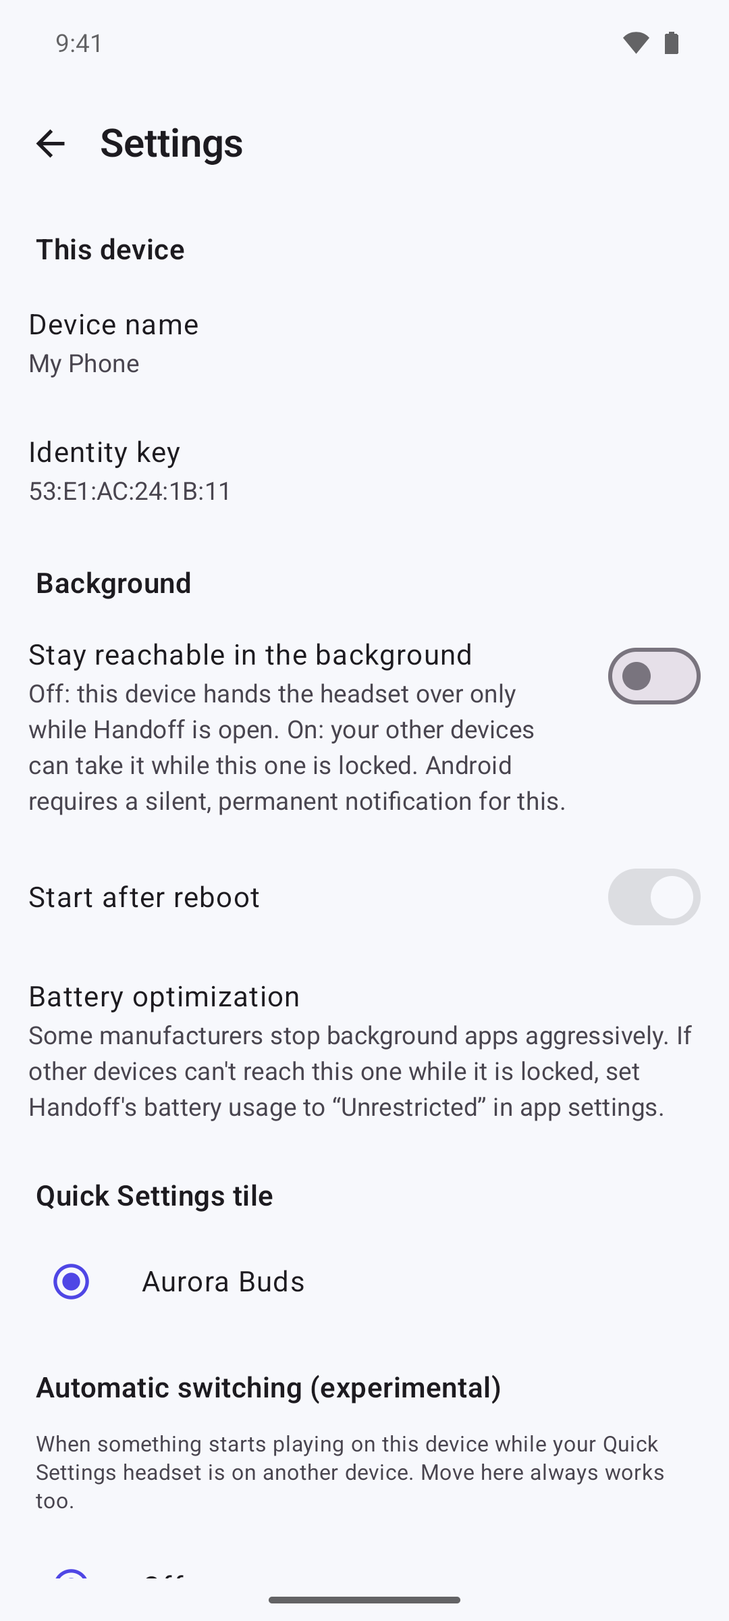
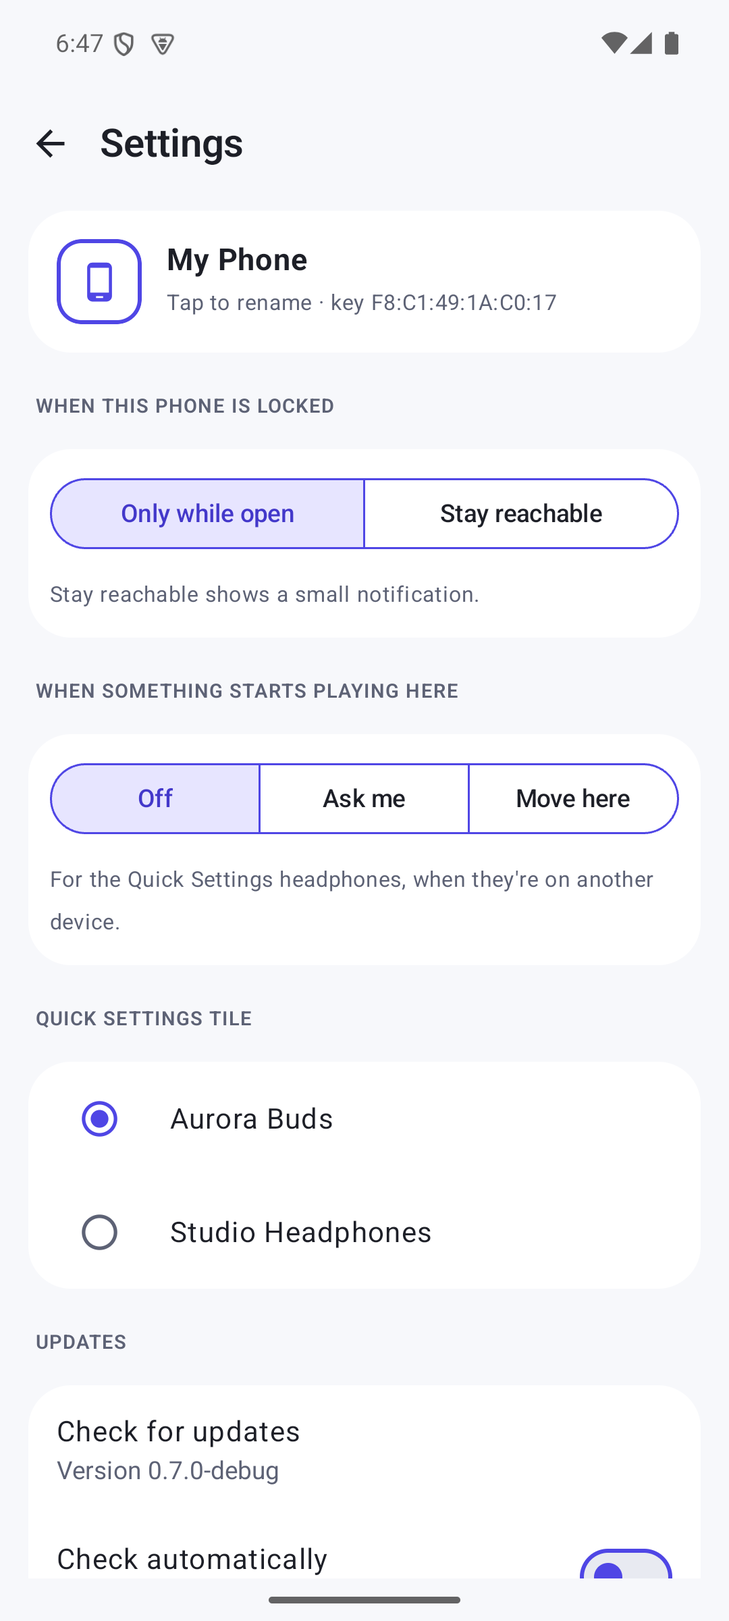
Handoff 0.7.0: new screenshots and guide for the redesign

diff --git a/docs/GETTING_STARTED.md b/docs/GETTING_STARTED.md
@@ -40,12 +40,12 @@ Pair your headphones with each device the usual way, in its Bluetooth settings. 
     <td align="center"><img src="screenshots/guide/setup-welcome.png" width="190" alt="Welcome screen"></td>
     <td align="center"><img src="screenshots/guide/setup-permissions.png" width="190" alt="The permissions step, with an Allow button for Nearby devices"></td>
     <td align="center"><img src="screenshots/guide/setup-name.png" width="190" alt="Naming the device My Phone"></td>
-    <td align="center"><img src="screenshots/guide/setup-check.png" width="190" alt="Handoff checking whether the device can switch headphones"></td>
+    <td align="center"><img src="screenshots/guide/setup-check.png" width="190" alt="Handoff checking whether this phone can move headphones"></td>
   </tr>
   <tr>
     <td align="center"><sub>Welcome</sub></td>
     <td align="center"><sub>Allow <b>Nearby devices</b></sub></td>
-    <td align="center"><sub>Name this device</sub></td>
+    <td align="center"><sub>Name this phone</sub></td>
     <td align="center"><sub>The device check</sub></td>
   </tr>
 </table>
@@ -53,11 +53,11 @@ Pair your headphones with each device the usual way, in its Bluetooth settings. 
 1. Read the welcome screen and tap **Continue**.
 2. Tap **Allow**, then allow **Nearby devices** when Android asks. Handoff needs this to see and connect your headphones, and it's the only permission setup asks for. Despite the wording of Android's prompt, Handoff doesn't use your location.
 3. Give your phone or tablet a name, so your other devices can show it.
-4. Handoff checks whether your device can switch headphones:
-   - **Supported:** Handoff has already moved headphones on this device.
-   - **Experimental:** everything Handoff needs is available. It changes to Supported after your first successful move.
-   - **Not supported on this device:** your phone maker doesn't let apps connect headphones. Your other devices can still take the headphones from it.
-5. Choose whether Handoff should **stay reachable in the background**. Switched on, your other devices can take the headphones from this one even when Handoff is closed or the screen is locked. Switched off, open Handoff on this device before moving the headphones away from it. You can change this later in Settings; see [Running in the background](#running-in-the-background-android).
+4. Handoff checks whether your phone can move headphones:
+   - **Yes, it works:** Handoff has already moved headphones on this phone.
+   - **Should work. Try your first move:** everything Handoff needs is available. It changes to "Yes" after your first successful move.
+   - **No:** your phone maker doesn't let apps connect headphones. Your other devices can still take the headphones from it.
+5. Choose what happens **when this phone is locked**: **Only while open** (open Handoff here before moving the headphones away) or **Stay reachable** (your other devices can take the headphones even when Handoff is closed or the screen is locked; Android shows a small notification). You can change this later in Settings; see [Running in the background](#running-in-the-background-android).
 
 **On Windows**, there's nothing to set up. Your PC appears under its own name, which you can change in **Settings**.
 
@@ -79,10 +79,10 @@ You link each pair of devices once. After that they recognise each other on any 
 </table>
 
 1. On your PC, choose **Link a phone**. A code appears.
-2. On your phone, open **My devices** (**Link a device** or **Manage** on the home screen), choose **Scan a Handoff code** and point the camera at the code. No camera handy? Choose **Copy code as text** on the PC and paste the code on the phone.
+2. On your phone, tap **Link a device** on the home screen, choose **Scan a code** and point the camera at the code. No camera handy? Choose **Copy the code** on the PC and paste it on the phone.
 3. Both screens now show the same 6-digit number. If they match, tap **Link**.
 
-To link two Android devices, choose **Show my code instead** on one and **Scan a Handoff code** on the other.
+To link two Android devices, choose **Show my code** on one and **Scan a code** on the other.
 
 A code works only once and expires after five minutes. Only link devices that you own and have in front of you: a linked device can move your headphones.
 
@@ -90,9 +90,9 @@ A code works only once and expires after five minutes. Only link devices that yo
 
 <img src="screenshots/guide/add-headset.png" width="200" align="right" alt="Choosing headphones to add">
 
-On each device, tap **Add headset** and choose your headphones from the list. It shows the headphones already paired with that device.
+On each device, tap **Add headphones** and choose your headphones from the list. It shows the headphones already paired with that device.
 
-If another of your devices already has those headphones in Handoff, the list says so ("also on Studio PC") and Handoff treats them as the same pair everywhere.
+If another of your devices already has those headphones in Handoff, the list says so ("also on Studio PC"), and Handoff asks whether they're the same pair. Choose the one marked **Recommended** and Handoff treats them as the same pair everywhere.
 
 Add the same headphones on every device you want to use them with.
 
@@ -100,14 +100,14 @@ Add the same headphones on every device you want to use them with.
 
 ## Moving your headphones
 
-Tap **Move here** on the device you want to listen on.
+Each pair of headphones has a small picture of your devices, with the headphones drawn as a dot above the device that has them. When they can come to the device you're holding, an arrow points to it. Tap **Move here** on the device you want to listen on.
 
 <table>
   <tr>
-    <td align="center"><img src="screenshots/android-before.png" width="190" alt="The headphones are on Studio PC, with a Move here button"></td>
-    <td align="center"><img src="screenshots/android-moving.png" width="190" alt="Studio PC has let go"></td>
-    <td align="center"><img src="screenshots/android-move.png" width="190" alt="Connected. Handed over cleanly."></td>
-    <td align="center"><img src="screenshots/guide/home-moving.png" width="190" alt="The home screen during a move, with View progress and Cancel"></td>
+    <td align="center"><img src="screenshots/android-before.png" width="190" alt="The headphones are on Studio PC, with an arrow towards this phone and a Move here button"></td>
+    <td align="center"><img src="screenshots/android-moving.png" width="190" alt="Studio PC has let go; the headphones travel along the arrow"></td>
+    <td align="center"><img src="screenshots/android-move.png" width="190" alt="Moved here, with each step ticked off"></td>
+    <td align="center"><img src="screenshots/guide/home-moving.png" width="190" alt="The home screen during a move, with Cancel and Show progress"></td>
   </tr>
   <tr>
     <td align="center"><sub>Tap <b>Move here</b></sub></td>
@@ -123,15 +123,15 @@ You'll see each step as it happens:
 2. It disconnects them.
 3. Your device connects and checks that sound really comes through.
 
-It usually takes a few seconds. You can leave the screen while it's running: the home screen shows the progress, with **View progress** to see the details again and **Cancel** to stop.
+It usually takes a few seconds. You can leave the screen while it's running: the home screen shows the progress, with **Show progress** to see the details again and **Cancel** to stop.
 
 You can also move your headphones from:
-- **Android:** the **Move here** tile in Quick Settings. Swipe down twice, tap the pencil (edit) icon and drag the tile into place. If you've added more than one pair of headphones, choose which pair the tile moves in the headphones' details (**Use for the Quick Settings tile**).
+- **Android:** the **Move here** tile in Quick Settings. Swipe down twice, tap the pencil (edit) icon and drag the tile into place. If you've added more than one pair of headphones, choose which pair the tile moves in the headphones' details (**Quick Settings tile**).
 - **Windows:** the tray icon's menu (**Move … here**).
 
 <img src="screenshots/guide/windows-home.png" width="260" align="right" alt="Handoff on Windows, with the headphones on My Phone">
 
-**On Windows**, the Handoff window shows where your headphones are, their battery level and your linked devices. Closing the window keeps Handoff running in the tray, so your phone can still reach the PC. To quit, choose **Quit Handoff** in the tray menu. Opening Handoff again brings the same window back.
+**On Windows**, the Handoff window shows where your headphones are, their battery level and your linked devices. Closing the window keeps Handoff running in the tray, so your phone can still reach the PC. To quit, choose **Quit** in the tray menu. Opening Handoff again brings the same window back.
 
 <br clear="right">
 
@@ -145,26 +145,26 @@ Links belong to your devices, not to a network, so they keep working wherever yo
 
 ## Running in the background (Android)
 
-<img src="screenshots/android-settings.png" width="200" align="right" alt="Android settings, with Stay reachable in the background switched off">
+<img src="screenshots/android-settings.png" width="200" align="right" alt="Android settings, with Only while open chosen for when the phone is locked">
 
 By default, Handoff on Android runs while the app is open and never leaves a notification behind. Your other devices can take the headphones from your phone while Handoff is open on it.
 
-To let them take the headphones even while your phone is locked, turn on **Settings → Stay reachable in the background**. Android requires a small permanent notification for this; **Hide the notification** lets you turn it off. **Start after reboot** brings background mode back after the phone restarts.
+To let them take the headphones even while your phone is locked, choose **Stay reachable** under **Settings → When this phone is locked**. Android requires a small permanent notification for this; **Hide the notification** lets you turn it off. **Start after restart** brings it back after the phone restarts.
 
-Some phone makers close background apps to save battery. If your locked phone doesn't respond, set Handoff's battery usage to **Unrestricted**. **Settings → Battery optimization** in Handoff takes you there.
+Some phone makers close background apps to save battery. If your locked phone doesn't respond, set Handoff's battery usage to **Unrestricted**. **Settings → Battery use** in Handoff takes you there.
 
 <br clear="right">
 
 ## Automatic switching (Android, optional)
 
-Handoff can react when you start playing something on your phone while your headphones are on another device. In **Settings → Automatic switching**, choose **Ask with a notification** or **Move automatically**. This needs **Stay reachable in the background**, and it moves the headphones chosen for the Quick Settings tile.
+Handoff can react when you start playing something on your phone while your headphones are on another device. In **Settings → When something starts playing here**, choose **Ask me** or **Move here**. This needs **Stay reachable**, and it moves the headphones chosen for the Quick Settings tile.
 
 ## Keeping Handoff up to date
 
 <table>
   <tr>
     <td align="center"><img src="screenshots/guide/settings-updates.png" width="200" alt="Android settings: Check for updates"></td>
-    <td align="center"><img src="screenshots/guide/windows-settings.png" width="260" alt="Windows settings: Check now and Check automatically"></td>
+    <td align="center"><img src="screenshots/guide/windows-settings.png" width="260" alt="Windows settings: Check and Check automatically"></td>
   </tr>
   <tr>
     <td align="center"><sub>Android</sub></td>
@@ -172,7 +172,7 @@ Handoff can react when you start playing something on your phone while your head
   </tr>
 </table>
 
-In **Settings**, **Check for updates** (Android) or **Check now** (Windows) looks for a new version. Turn on **Check automatically** to have Handoff look once a day. When an update is available, a banner appears on the home screen. **Download and install** fetches it and checks that it really comes from this project before installing it. Android and Windows then ask you to confirm the installation.
+In **Settings**, **Check for updates** (Android) or **Check** (Windows) looks for a new version. Turn on **Check automatically** to have Handoff look once a day. When an update is available, **Update available** appears on the home screen. **Update** fetches it and checks that it really comes from this project before installing it. Android and Windows then ask you to confirm the installation.
 
 If you use the portable Windows version, Handoff opens the release page instead, so you can download the new zip.
 
@@ -184,12 +184,12 @@ Checking for updates is the only time the GitHub edition uses the internet, and 
 
 <img src="screenshots/guide/my-devices.png" width="200" align="right" alt="My devices, with Studio PC linked">
 
-- **Linked devices:** on Android, **My devices** lists them and shows whether each is online. Tap the unlink icon to remove one. Unlink on both devices to remove the link completely.
-- **Names:** on Android, **Settings → Device name**. On Windows, **Settings → This PC's name**.
-- **Headphone options:** tap your headphones on Android, or their **⋮** button on Windows:
+- **Linked devices:** they're shown as a row on the home screen, with a dot when they're online. On Android, tap one to open **My devices**, where the unlink icon removes it. Unlink on both devices to remove the link completely.
+- **Names:** on Android, tap the name at the top of **Settings**. On Windows, **Settings → Name**.
+- **Headphone options:** tap your headphones' card, on Android or Windows:
   - **Stay connected to other devices:** off by default. When it's off, **Move here** disconnects the headset from your other devices, even if your headphones can connect to two at once. That stops a notification or video on another device from interrupting what you're listening to. Turn it on only if you want the headphones connected to several devices at once; **Move here** then adds this device and leaves the others. If the headphones end up connected to two devices anyway (many reconnect to both when switched on), Handoff shows **Use only here**.
-  - **Use for the Quick Settings tile** (Android) or **Tray headset** (Windows): the headphones the tile or tray menu moves.
-  - **Forget:** removes the headphones from Handoff on that device. Their Bluetooth pairing isn't changed.
+  - **Quick Settings tile** (Android) or **Tray menu** (Windows): the headphones the tile or tray menu moves.
+  - **Remove from this phone** (or **this PC**): removes the headphones from Handoff on that device. They stay connected in Bluetooth settings.
 - **Start with Windows:** on or off in the Windows **Settings**.
 
 <br clear="right">
@@ -200,23 +200,25 @@ If a move doesn't work, Handoff tries once more by itself. If it still can't fin
 
 | Handoff says | What to do |
 |---|---|
-| **Couldn't reach …** or **On another network** | Open Handoff on the other device, or turn on **Stay reachable in the background** there. Make sure both devices are on the same Wi-Fi. No shared Wi-Fi? Use a hotspot. |
-| **The other device couldn't let go** | Disconnect the headphones on that device yourself, then tap **Move here** again. |
-| **… doesn't recognise this device** | The link only exists on one of the two devices. In **My devices**, unlink the other device and link them again. If an older copy of Handoff is installed on either device, uninstall it first. |
-| **The headset didn't connect** | Check that your headphones are on, charged and close by, and not connected to a device without Handoff. |
-| **Another device is taking it** | Two devices asked for the headphones at the same moment. Wait a second and try again. |
-| **Bluetooth permission needed** | Tap **Open app settings** and allow **Nearby devices**. |
-| **Bluetooth is off** | Turn Bluetooth on and try again. |
-| **Not paired with this device** | Pair the headphones in this device's Bluetooth settings first. |
-| **Too many attempts** | Handoff pauses briefly to protect your Bluetooth. Wait a minute. |
+| **… didn't answer**, **… is offline** or **Other Wi-Fi** | Open Handoff on the other device, or choose **Stay reachable** there. Make sure both devices are on the same Wi-Fi. No shared Wi-Fi? Use a hotspot. |
+| **The other device couldn't let go** | Disconnect the headphones on that device yourself, then tap **Try again**. |
+| **… doesn't recognize this phone** | The link only exists on one of the two devices. Tap **Link again**: unlink the other device in **My devices** and link them again. If an older copy of Handoff is installed on either device, remove it first. |
+| **The headphones didn't connect** | Check that your headphones are on, charged and close by, out of the case, and not connected to a device without Handoff. |
+| **Another device is moving them** | Two devices asked for the headphones at the same moment. Wait a second and try again. |
+| **Handoff needs Bluetooth access** | Tap **Allow** and allow **Nearby devices**. |
+| **Bluetooth is off** | Tap **Turn on Bluetooth**. |
+| **Not connected to this phone yet** | Connect the headphones once in this device's Bluetooth settings. |
+| **Too many tries. Wait a minute.** | Handoff pauses briefly to protect your Bluetooth. |
 
-**On Windows**, after your headphones move to another device, they no longer appear in the PC's sound settings. That's on purpose: it stops Windows from pulling them back. Tap **Move here** on the PC to get them back, or choose **Restore Windows audio** in the headphones' options.
+Most problems show one button that fixes them; **More** shows a longer explanation.
 
-**Two copies of Handoff on one device?** If you installed a test version of Handoff earlier, it can still be on your device next to the current one, and your other devices may link to the wrong copy. Handoff shows a warning on its home screen when it finds one; tap **Uninstall the older copy**, then link your devices again.
+**On Windows**, after your headphones move to another device, they no longer appear in the PC's sound settings. That's on purpose: it stops Windows from pulling them back. Tap **Move here** on the PC to get them back, or choose **Connect to this PC** in the headphones' options.
+
+**Two copies of Handoff on one device?** If you installed a test version of Handoff earlier, it can still be on your device next to the current one, and your other devices may link to the wrong copy. Handoff shows a warning on its home screen when it finds one; tap **Remove it**, then link your devices again.
 
 **Windows won't start Handoff?** If your PC has *Smart App Control* switched on, Windows blocks apps that aren't code-signed yet and offers no "Run anyway" option. Code signing is planned.
 
-**Still stuck?** **Diagnostics** (the bug icon in the app) shows what Handoff sees on your device. You can share a report (the share button on Android, **Copy & close** on Windows) when you [open an issue](https://github.com/FancyCorey/handoff/issues). Reports hide most of your headphones' Bluetooth address and never include your keys.
+**Still stuck?** **Settings → Help and diagnostics** shows what Handoff sees on your device. You can share a report (the share button on Android, **Copy the report** on Windows) when you [open an issue](https://github.com/FancyCorey/handoff/issues). Reports hide most of your headphones' Bluetooth address and never include your keys.
 
 ## What Handoff is allowed to do on Android
 
@@ -225,8 +227,8 @@ If a move doesn't work, Handoff tries once more by itself. If it still can't fin
 | Nearby devices | See your paired headphones, and connect or disconnect them. |
 | Network access | Talk to your other devices on your network, and check for updates when you ask. |
 | Install apps | GitHub edition only: install an update you've downloaded. Android asks you to confirm each time. The Google Play edition doesn't have this permission. |
-| Run in the background | Only if you turn on **Stay reachable in the background**. |
-| Notifications | Only if you turn on background mode or **Ask with a notification**. |
+| Run in the background | Only if you choose **Stay reachable**. |
+| Notifications | Only if you choose **Stay reachable** or **Ask me**. |
 | Start at boot | Only to restart background mode after a reboot, if it's on. |
 | Camera | Only when you scan a link code. You can paste the code instead. |
 
@@ -235,4 +237,4 @@ Handoff never asks for your location and never searches for new Bluetooth device
 ## Uninstalling
 
 - **Android:** uninstall Handoff like any other app. Its data and keys are removed with it.
-- **Windows:** first, if your headphones were last handed to another device, choose **Restore Windows audio** in their options so Windows can use them again. Then go to **Settings → Apps → Installed apps → Handoff → Uninstall**. Your settings and links stay in `%APPDATA%\Handoff` in case you reinstall; delete that folder to remove them too.
+- **Windows:** first, if your headphones were last handed to another device, choose **Connect to this PC** in their options so Windows can use them again. Then go to **Settings → Apps → Installed apps → Handoff → Uninstall**. Your settings and links stay in `%APPDATA%\Handoff` in case you reinstall; delete that folder to remove them too.

diff --git a/README.md b/README.md
@@ -24,9 +24,9 @@ One tap moves your headphones between your Android phone, tablet and Windows PC.
 
 <table align="center">
   <tr>
-    <td align="center"><img src="docs/screenshots/android-before.png" width="230" alt="The phone shows the headphones are on the PC, with a Move here button"></td>
-    <td align="center"><img src="docs/screenshots/android-moving.png" width="230" alt="The PC has let go of the headphones"></td>
-    <td align="center"><img src="docs/screenshots/android-move.png" width="230" alt="The headphones are now connected to the phone"></td>
+    <td align="center"><img src="docs/screenshots/android-before.png" width="230" alt="The phone shows the headphones on Studio PC, with an arrow towards the phone and a Move here button"></td>
+    <td align="center"><img src="docs/screenshots/android-moving.png" width="230" alt="Studio PC has let go; the headphones travel along the arrow"></td>
+    <td align="center"><img src="docs/screenshots/android-move.png" width="230" alt="Moved here, with each step ticked off"></td>
   </tr>
   <tr>
     <td align="center"><sub>Your headphones are on the PC</sub></td>
@@ -61,13 +61,13 @@ You're listening on your laptop, then pick up your phone to watch a video, and t
 3. **Link your devices.** One shows a code, the other scans it, and you confirm that both show the same number.
 4. **Add your headphones** in Handoff on each device.
 
-Then press **Move here** whenever you want to switch. The [getting started guide](docs/GETTING_STARTED.md) walks through every step.
+Then tap **Move here** whenever you want to listen on another device. The [getting started guide](docs/GETTING_STARTED.md) walks through every step.
 
 <table align="center">
   <tr>
     <td align="center"><img src="docs/screenshots/android-link-code.png" width="230" alt="A link code shown on Android"></td>
     <td align="center"><img src="docs/screenshots/windows-link-approval.png" width="260" alt="Windows asking to link My Phone after checking the 6-digit number"></td>
-    <td align="center"><img src="docs/screenshots/android-home.png" width="230" alt="The headphones connected to the phone at 80% battery, with the PC online"></td>
+    <td align="center"><img src="docs/screenshots/android-home.png" width="230" alt="The headphones on the phone at 80% battery, with Studio PC online"></td>
   </tr>
   <tr>
     <td align="center"><sub>Show a code on one device…</sub></td>
@@ -112,7 +112,7 @@ The technical details are in the [security overview](docs/SECURITY.md), and what
 
 <table align="center">
   <tr>
-    <td align="center"><img src="docs/screenshots/android-settings.png" width="230" alt="Android settings, with running in the background switched off"></td>
+    <td align="center"><img src="docs/screenshots/android-settings.png" width="230" alt="Android settings, with Only while open chosen for when the phone is locked"></td>
     <td align="center"><img src="docs/screenshots/windows-no-shared-wifi.png" width="260" alt="Windows suggesting a hotspot when no other device is on the same network"></td>
   </tr>
   <tr>
@@ -124,7 +124,7 @@ The technical details are in the [security overview](docs/SECURITY.md), and what
 ## Q&A
 
 **Which headphones work?**
-Any Bluetooth headphones, earbuds or headset that you can pair with your devices. Handoff works best with headphones that connect to one device at a time. For headphones that can already connect to two devices at once, Handoff moves the sound without disconnecting the other device.
+Any Bluetooth headphones, earbuds or headset that you can pair with your devices. Headphones that can connect to two devices at once work too: **Move here** disconnects them from your other devices so their sounds can't interrupt you, or, if you turn on **Stay connected to other devices**, connects this device as well and leaves the others.
 
 **Does my audio go through Handoff?**
 No. Sound always goes straight from your phone or PC to your headphones. Handoff only decides *which* device is connected.
@@ -136,7 +136,7 @@ No. Your devices just need to be on the same Wi-Fi, or on a hotspot from one of 
 If it runs Android 12 or newer, most likely. Android doesn't offer apps an official way to connect headphones, so Handoff uses features that some phone makers can restrict. The first time you open Handoff, it tells you whether your phone supports it. See [Compatibility](#compatibility).
 
 **Does it need to stay open?**
-On Windows, Handoff runs in the tray. On Android, it works while the app is open. Turn on **Stay reachable in the background** if you also want other devices to take the headphones while your phone is locked.
+On Windows, Handoff runs in the tray. On Android, it works while the app is open. Choose **Stay reachable** in Settings if you also want other devices to take the headphones while your phone is locked.
 
 **Why does Windows warn me about the download?**
 Handoff is new and not yet code-signed, so Windows may say "Windows protected your PC". Choose **More info → Run anyway**. On PCs with *Smart App Control* switched on, Windows doesn't offer this option yet.
@@ -190,4 +190,4 @@ Handoff is free and open source under the [MIT License](LICENSE).
 
 Handoff is not affiliated with Apple, and doesn't work with Apple's Handoff feature.
 
-Its approach to connecting and disconnecting Bluetooth headphones was adapted from **[PodSwitch](https://github.com/Felip6499/PodSwitch)** by Felip6499 (MIT License). Credits and the licenses of every open-source component Handoff uses are in [THIRD_PARTY_NOTICES.md](THIRD_PARTY_NOTICES.md), and in the apps under **Settings → Open-source licenses**.
+Its approach to connecting and disconnecting Bluetooth headphones was adapted from **[PodSwitch](https://github.com/Felip6499/PodSwitch)** by Felip6499 (MIT License). Credits and the licenses of every open-source component Handoff uses are in [THIRD_PARTY_NOTICES.md](THIRD_PARTY_NOTICES.md), and in the apps under **Settings → Licenses**.

diff --git a/PRIVACY.md b/PRIVACY.md
@@ -1,6 +1,6 @@
 # Privacy policy
 
-*Last updated: 30 September 2026. Applies to Handoff 0.6.0 and later, on Android and Windows.*
+*Last updated: 10 October 2026. Applies to Handoff 0.6.0 and later, on Android and Windows.*
 
 Handoff moves your Bluetooth headphones between your own phones, tablets and PCs. It works on your local network: your devices talk directly to each other, and Handoff has no servers, accounts or cloud service of its own.
 
@@ -56,11 +56,11 @@ The camera is used only while you scan a link code, after you tap **Scan**. Imag
 
 ### Notifications and background mode
 
-Background mode (**Stay reachable in the background**) is off unless you turn it on. When it is on, Android shows a notification for as long as Handoff runs in the background, so your other devices can reach this one while it is locked. You can turn it off at any time in Handoff's settings. Notifications are also used for the optional "Move here?" prompt.
+Background mode (**Stay reachable**, under "When this phone is locked") is off unless you choose it. When it is on, Android shows a notification for as long as Handoff runs in the background, so your other devices can reach this one while it is locked. You can turn it off at any time in Handoff's settings. Notifications are also used for the optional "Move here?" prompt.
 
 ### Diagnostics
 
-The diagnostics screen shows a log of recent events, kept only in memory. Handoff never sends it anywhere. If you choose **Share**, Android's share sheet lets you send a copy to the app or person you pick. The report contains your phone's make, model and Android version, device and headset names, and recent events; Bluetooth addresses are shortened and link codes and keys are removed.
+The diagnostics screen (**Settings → Help and diagnostics**) shows a log of recent events, kept only in memory. Handoff never sends it anywhere. If you choose **Share**, Android's share sheet lets you send a copy to the app or person you pick. The report contains your phone's make, model and Android version, device and headset names, and recent events; Bluetooth addresses are shortened and link codes and keys are removed.
 
 ### Update checks
 
@@ -99,7 +99,7 @@ Handoff is a general-purpose utility and isn't directed at children.
 
 ## Your choices
 
-- Everything Handoff stores is on your devices. **Unlink** a device or use **Forget on this device** on a headset to delete that record, or uninstall Handoff to delete everything.
+- Everything Handoff stores is on your devices. **Unlink** a device or use **Remove from this phone** on a headset to delete that record, or uninstall Handoff to delete everything.
 - Background mode, automatic update checks and "Move here?" notifications are all optional and can be turned off in Settings.
 - In the Google Play edition: change ad consent under **Settings → Privacy → Ad privacy choices** (where offered), and reset or delete your advertising ID in Android's settings.
 

diff --git a/docs/releases/v0.7.0.md b/docs/releases/v0.7.0.md
@@ -1,0 +1,28 @@
+## What's changed
+
+- **A new look that shows where your headphones are.** Each pair of headphones now has a small picture of your devices, with the headphones drawn above the one that has them. When they can come to this device, an arrow points here: tap **Move here** and watch them travel along it.
+- **Clearer, shorter words everywhere.** Statuses are a few words ("On Studio PC", "Here"), and every problem says what happened and offers one button that fixes it. The longer explanation is one tap away under **More**.
+- **Tidier home screen.** Your main headphones (the ones the Quick Settings tile moves) get the big picture; others get a compact card with their own **Move here**. Your linked devices are shown as a row with a dot when they're online.
+- **Settings, simplified.** Choices like "When this phone is locked" and "When something starts playing here" are now side-by-side options with one sentence each. **Help and diagnostics** has moved into Settings.
+- **Smaller download.** The Android app is about 4 MB instead of 50 MB.
+- **Software bill of materials.** Each release now lists every library the apps contain (the `-sbom.cdx.json` files).
+
+## Which file do I need?
+
+| Your device | Download |
+|---|---|
+| Android phone or tablet (Android 12 or newer) | **Handoff-0.7.0.apk** |
+| Windows 10 or 11 PC | **Handoff-0.7.0-setup.exe** (recommended) or **Handoff-0.7.0.msi** |
+| Windows, without installing anything | **Handoff-0.7.0-windows-portable.zip**: unzip it and run `Handoff.exe` |
+
+**Already using Handoff?** Open **Settings → Check for updates** (Android) or **Settings → Check** (Windows) and choose **Download and install** (on 0.6.x it's still called that). Your linked devices and headphones stay as they are.
+
+New to Handoff? The [getting started guide](https://github.com/FancyCorey/handoff/blob/main/docs/GETTING_STARTED.md) walks through setup step by step.
+
+## Good to know
+
+- **Android** asks you to allow installing apps from your browser or file manager the first time you open the APK.
+- **Windows** may warn "Windows protected your PC" because Handoff isn't code-signed yet. Choose **More info → Run anyway**. On PCs with *Smart App Control* switched on, Windows doesn't offer that option yet.
+- `SHA256SUMS.txt` lists the fingerprint of every app file, so you can check a download hasn't been altered.
+
+Found a problem or have an idea? [Open an issue](https://github.com/FancyCorey/handoff/issues).

diff --git a/docs/BLUETOOTH_COMPATIBILITY.md b/docs/BLUETOOTH_COMPATIBILITY.md
@@ -89,7 +89,7 @@ A "requested" result is never treated as success. The coordinator always calls `
 
 * No crash: every reflection path returns a value, and this is unit-tested with hostile stand-in proxies.
 * No loops: at most 2 connect attempts per transfer, with a 12-operations-per-minute throttle.
-* Clear messages, plus **Open Bluetooth settings** and **Diagnostics** buttons on failure.
+* Short messages with one button that fixes the problem (such as **Open Bluetooth settings**), and **Help and diagnostics** in Settings.
 
 ## Compatibility
 
@@ -117,7 +117,7 @@ A "requested" result is never treated as success. The coordinator always calls `
 | Headphones | Status |
 |---|---|
 | Bluetooth headphones, earbuds and headsets that connect to one device at a time | ✅ Works best. Handoff hands them from one device to the next. |
-| Headphones that connect to two devices at once (multipoint) | ✅ Handoff moves the sound without disconnecting the other device. |
+| Headphones that connect to two devices at once (multipoint) | ✅ **Move here** disconnects them from your other devices, so their sounds can't interrupt you. With **Stay connected to other devices** on, this device joins and the others stay connected. |
 | Bluetooth speakers and car audio | ⚠ Should work, as they connect the same way as headphones, but haven't been tested yet. |
 | Headphones that only support Bluetooth LE Audio | ⚠ Not supported yet. Most LE Audio headphones also support classic Bluetooth, which works. |
 
@@ -125,7 +125,7 @@ Android doesn't give apps an official way to connect headphones, so some phone m
 
 Some phone makers close background apps aggressively to save battery. If a locked phone doesn't respond, set Handoff's battery usage to *Unrestricted*.
 
-**Tried Handoff on your device?** Share the report from **Diagnostics** in an [issue](https://github.com/FancyCorey/handoff/issues). Reports from more devices help everyone. The [hardware test plan](HARDWARE_TEST_PLAN.md) lists the scenarios worth trying.
+**Tried Handoff on your device?** Share the report from **Settings → Help and diagnostics** in an [issue](https://github.com/FancyCorey/handoff/issues). Reports from more devices help everyone. The [hardware test plan](HARDWARE_TEST_PLAN.md) lists the scenarios worth trying.
 
 ## Windows
 

diff --git a/docs/PLAY_STORE.md b/docs/PLAY_STORE.md
@@ -203,7 +203,7 @@ flowchart LR
     c --> p["Production<br/>staged rollout"]
 ```
 
-1. **Internal testing** first. Check on real devices: install from Play, Bluetooth and notification permissions, setup (including the background-mode choice), linking by QR code, moves in both directions, background release while locked, the Quick Settings tile, the banner position and that it never covers anything, Settings → Privacy, that Settings shows "Updates are managed by Google Play" and there is no install prompt anywhere, and a Play update from one internal build to the next.
+1. **Internal testing** first. Check on real devices: install from Play, Bluetooth and notification permissions, setup (including the background-mode choice), linking by QR code, moves in both directions, background release while locked, the Quick Settings tile, the banner position and that it never covers anything, Settings → Privacy, that Settings → Updates says "through Google Play" and there is no install prompt anywhere, and a Play update from one internal build to the next.
 2. Read the **pre-launch report** (crashes, accessibility, warnings about non-SDK interfaces).
 3. **Closed testing.** Personal developer accounts created after 13 November 2023 need a closed test with at least 12 testers opted in for 14 days in a row before applying for production access. Use it to collect device and headset reports (see [HARDWARE_TEST_PLAN.md](HARDWARE_TEST_PLAN.md)).
 4. **Production** with a staged rollout.
